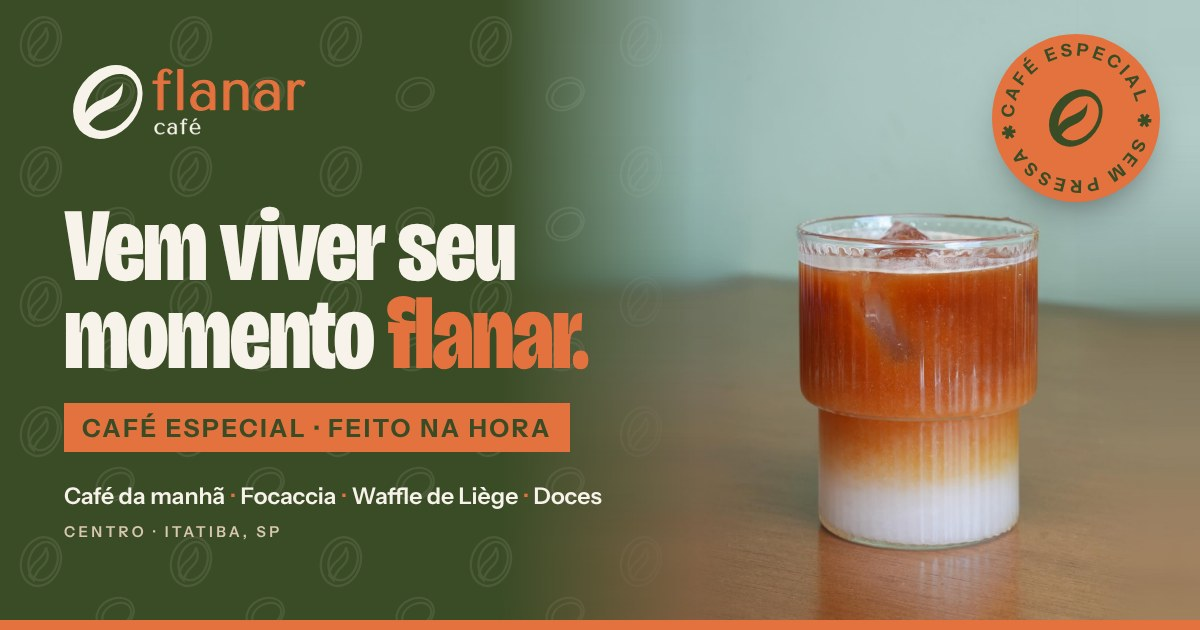
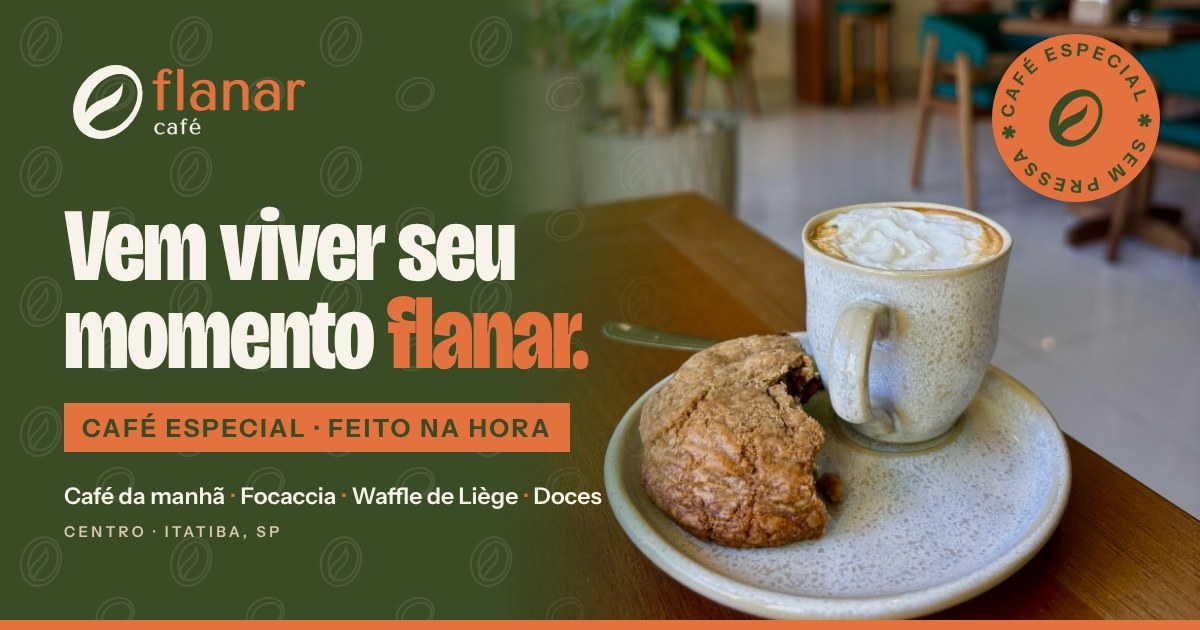
Capa de link com a foto do salão
A capa de compartilhamento troca a foto do Orange coffee (a do hero
antigo) pelo cappuccino com cookie e o salão da Flanar ao fundo,
mantendo o formato da capa da SURAMU. Saem a foto antiga do hero e o
script que a gerava (npm run hero), que não eram mais usados.

Claude-Session: https://claude.ai/code/session_012pWMbxfjZGAyN31SJVLQ3Z

diff --git a/scripts/capa-link/capa.html b/scripts/capa-link/capa.html
@@ -22,7 +22,7 @@
   /* Foto à direita, fundindo no verde pela esquerda. */
   .foto { position: absolute; top: 0; right: 0; width: 700px; height: 630px; overflow: hidden;
     -webkit-mask-image: linear-gradient(to right, transparent 0%, black 28%); mask-image: linear-gradient(to right, transparent 0%, black 28%); }
-  .foto img { position: absolute; top: 0; left: -300px; height: 630px; width: auto; }
+  .foto img { position: absolute; top: -250px; left: 0; width: 700px; height: auto; }
 
   .texto { position: absolute; left: 64px; top: 56px; width: 620px; }
   .logo { width: 250px; display: block; }
@@ -55,7 +55,7 @@
     <rect width="100%" height="100%" fill="url(#graos)"/>
   </svg>
 
-  <div class="foto"><img src="../../public/media/hero-cafe.jpg" alt=""></div>
+  <div class="foto"><img src="../../public/fotos/salao-cappuccino-cookie.jpg" alt=""></div>
 
   <div class="texto">
     <img class="logo" src="../../public/marca/flanar-horizontal-fundo-escuro.svg" alt="Flanar Café">
